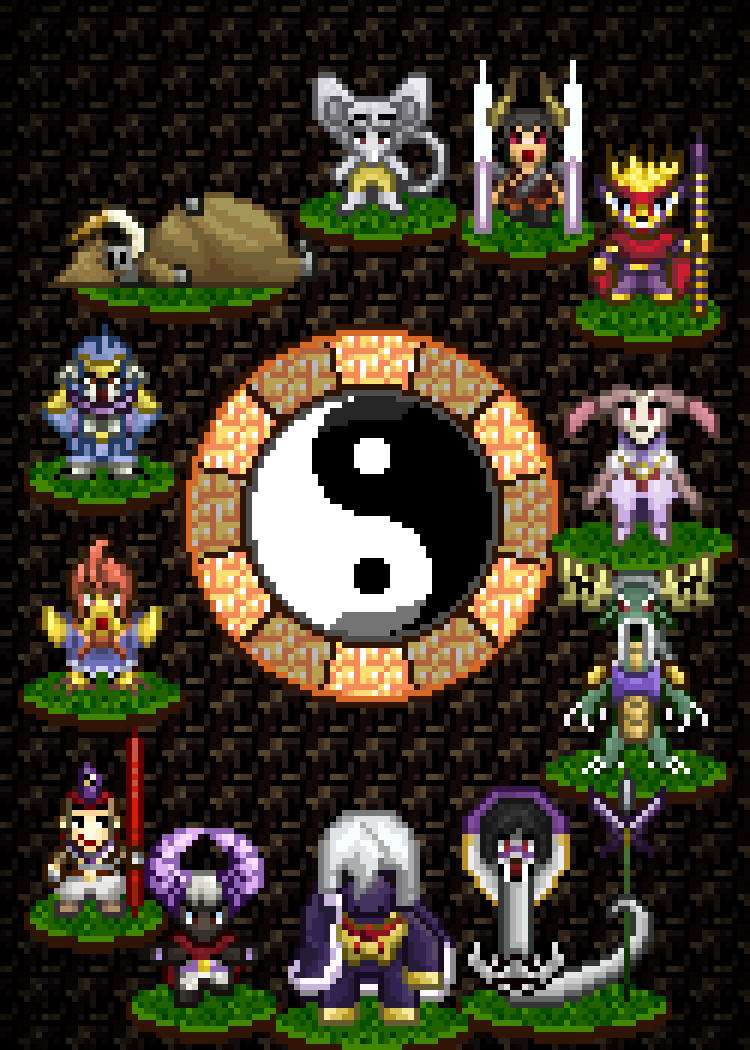
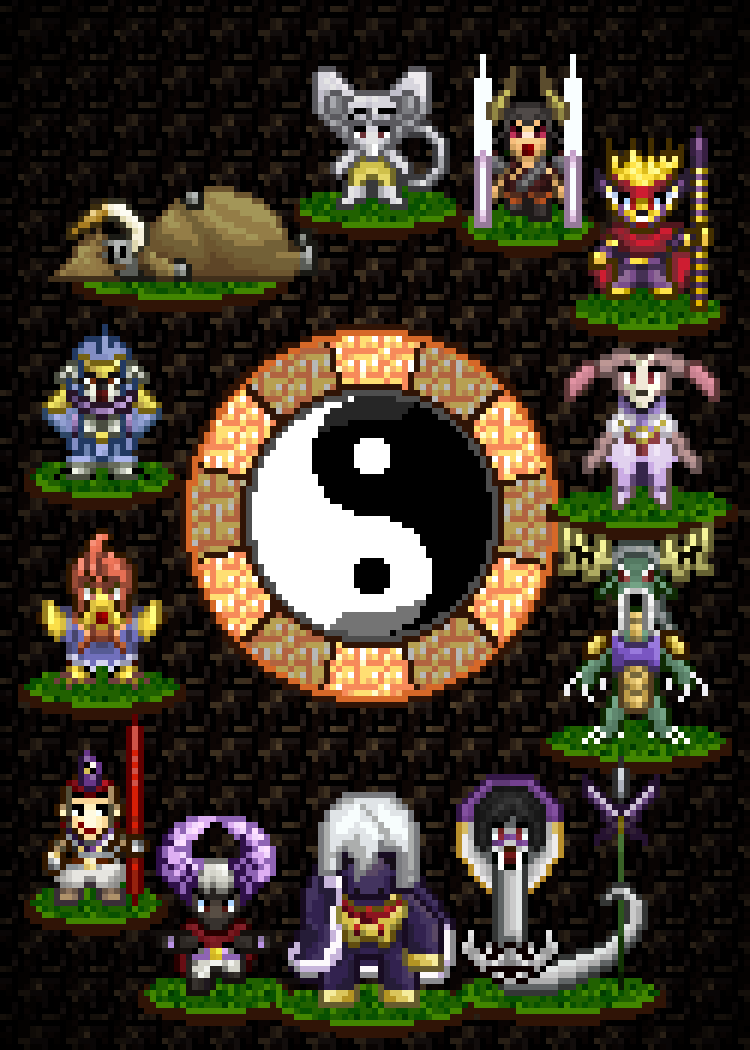
Sleeve-Entwürfe Runde 2b: Zwischenstand
Claude-Session: https://claude.ai/code/session_01TEnvTzH2xD44R6Unjv7vDo

diff --git a/data/sleeve-proposals/runde2/generator/s05_egypt.py b/data/sleeve-proposals/runde2/generator/s05_egypt.py
@@ -14,7 +14,7 @@ Runde 2b: EINE Pixelgröße für alles – die ganze Szene wird im Originalraste
   im selben Raster."""
 import numpy as np
 from kit import Canvas, up, flip, silhouette, save, BAYER4
-from xcfkit import sprite, parts, layer
+from xcfkit import sprite, parts
 
 B = 'MotiveEgypt'
 NW, NH = 84, 117
@@ -23,16 +23,12 @@ cv = Canvas(NW, NH)
 room = sprite('eg_room', B, [185])                       # Grabkammer-Textur (Ebene #48), zugeschnitten ab (293,317)
 WALL = room[38:54, 178:226, :3]                          # waagrechte Ziegel, Periode 48×16
 FLOOR = room[80:96, 190:206, :3]                         # Flechtverband, Periode 16×16
-try:
-    PYR = layer(B, 121)[336:342, 440:443, :3].copy()     # Pyramiden-Mauerwerk der Eye-of-Ren-Karte (3×6)
-    np.save(__import__('os').path.join(__import__('os').path.dirname(__file__), 'sprites2', 'eg_pyr_tile.npy'), PYR)
-except Exception:
-    PYR = np.load(__import__('os').path.join(__import__('os').path.dirname(__file__), 'sprites2', 'eg_pyr_tile.npy'))
+PYR = sprite('eg_pyr_tile', B, [121], box=(440, 336, 443, 342))[..., :3]   # Pyramiden-Mauerwerk (3×6)
 
 ren = sprite('eg_ren', B, [188])
 eye = sprite('eg_eye', B, [99])
 ush = parts(sprite('eg_ushabti', B, [168]))             # links, Mitte (mit Flamme), rechts
-grd = parts(sprite('eg_guards', B, [183]), dil=1)        # zwei Wächter (mit Sensen)
+grd = parts(sprite('eg_guards', B, [183]), dil=0)        # zwei Wächter (mit Sensen)
 assert len(grd) == 2
 khet = sprite('eg_khet', B, [214])
 
@@ -66,7 +62,7 @@ t = np.zeros((NH, NW))
 for gx, gy in glow:
     d = np.hypot(xx - gx, (yy - gy) * 1.1)
     t = np.maximum(t, np.clip(1 - d / 20, 0, 1))
-q = (t * 1.6 > (BAYER4[yy % 4, xx % 4] + 0.5) / 16 * 1.0 + 0.35)
+q = t * 0.9 > BAYER4[yy % 4, xx % 4]
 warm = np.clip(cv.a * 1.18 + np.array([22, 10, 0]), 0, 255).astype(np.uint8)
 cv.a[q] = warm[q]
 

diff --git a/data/sleeve-proposals/runde2/generator/s04_spiders.py b/data/sleeve-proposals/runde2/generator/s04_spiders.py
@@ -24,10 +24,10 @@ cv = Canvas(NW, NH)
 kl = sprite('r2_04_klippen', G, [421])
 band = kl[150:240, 130:130 + NW]
 bg = np.concatenate([band[::-1], band], 0)[:NH]
-bg = hsv_shift(bg, 0, 0.8, 0.62)[..., :3].astype(float)
+bg = hsv_shift(bg, 0, 0.8, 0.8)[..., :3].astype(float)
 bg = bg.mean((0, 1)) + (bg - bg.mean((0, 1))) * 0.6          # Kontrast zurücknehmen → ruhiger Hintergrund
 cv.a[:] = bg.clip(0, 255).astype(np.uint8)
-vignette(cv, 0.8, 0.3)
+vignette(cv, 0.55, 0.35)
 
 # --- Netz aus „Trapping #1“
 try:
@@ -103,11 +103,11 @@ def hang(s, x, y, seglen=2):
 # Crimson Skull Spider: Körper auf der Nabe, roter Faden nach oben
 bcol = int(np.argmax(boss[0, :, 3] > 0))
 hang(boss, HX - bcol, HY - boss.shape[0] + 13, seglen=4)
-hang(brain, 46, 2)
+hang(brain, 42, 2)
 put(cute, 2, 3)
 put(dia, 1, 45, r=1); put(dia, 46, 64, r=3)
 put(hive[0], 25, 8); put(hive[5], 6, 27, True, 1); put(hive[3], 13, 66)
-put(hive[2], 30, 78); put(hive[5], 53, 36, False, 3); put(hive[0], 49, 80, False, 2)
+put(hive[2], 30, 78); put(hive[0], 49, 80, False, 2)
 
 # --- einheitlich 4× hochskalieren, auf 250×350 beschneiden
 u = up(np.dstack([cv.a, np.full(cv.a.shape[:2], 255, np.uint8)]), K)[..., :3]

diff --git a/data/sleeve-proposals/runde2/generator/s01_zodiac.py b/data/sleeve-proposals/runde2/generator/s01_zodiac.py
@@ -32,8 +32,8 @@ brick = tex('r2_01_brick', 203, 175)
 grass = tex('r2_01_grass', 137, 136)
 
 # Hintergrund: dunkler Fels, zusätzlich abgedunkelt + Vignette
-fill_tiles(cv, darken(rock, 0.8))
-vignette(cv, 0.75, 0.35)
+fill_tiles(cv, darken(rock, 0.75))
+vignette(cv, 0.8, 0.12)
 
 # Tierkreis-Ring: abgerundetes Rechteck (nutzt das Hochformat besser als eine Ellipse),
 # die Füße der Figuren stehen auf dem Ziegelband.
